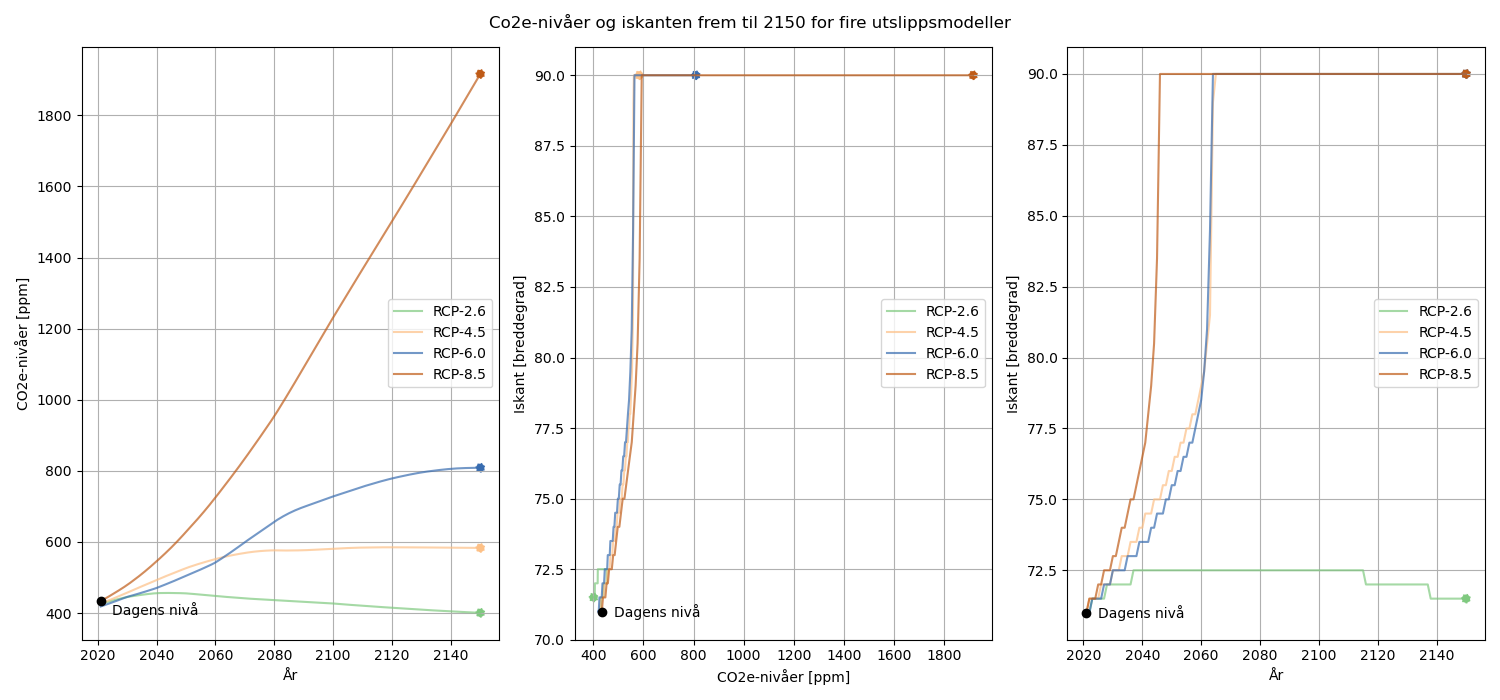
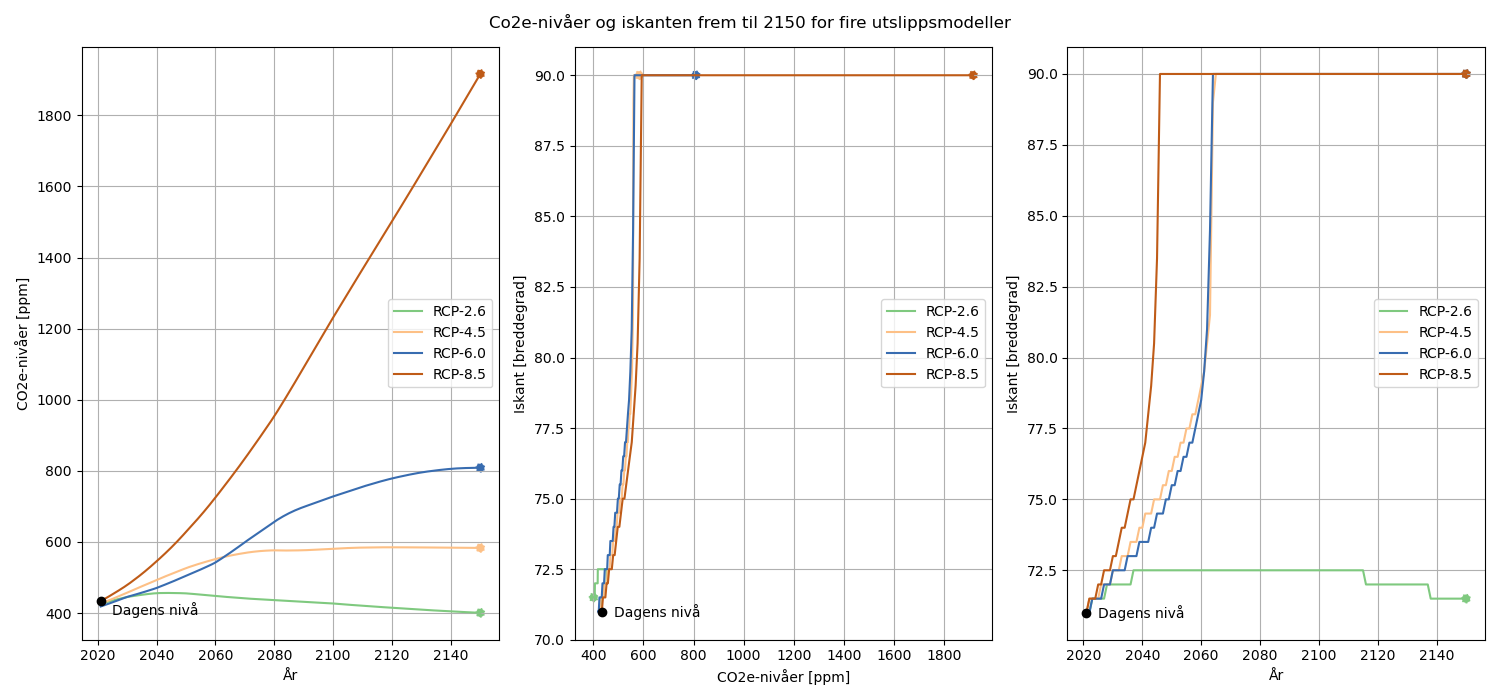
plots

diff --git a/plot_4scenarios_years-co2-icelat.py b/plot_4scenarios_years-co2-icelat.py
@@ -17,11 +17,12 @@ predictions = np.load(name, allow_pickle = True)
 #plot icelats and co2e levels
 cmap = matplotlib.cm.get_cmap('Accent')
 fig2, axs = plt.subplots(nrows = 1, ncols = 3, figsize=(15,7))
+alpha = 1
 plt.suptitle('Co2e-nivåer og iskanten frem til 2150 for fire utslippsmodeller')
 for i,predmodel in enumerate(predictions):
-    axs[0].plot(predmodel.years, predmodel.co2e_array, color = cmap(i/4), linestyle = '-', label = predmodel.label, alpha = 0.7)
-    axs[1].plot(predmodel.co2e_array, predmodel.icelat, color = cmap(i/4), linestyle = '-', label = predmodel.label, alpha = 0.7)
-    axs[2].plot(predmodel.years, predmodel.icelat, color = cmap(i/4), linestyle = '-', label = predmodel.label, alpha = 0.7)
+    axs[0].plot(predmodel.years, predmodel.co2e_array, color = cmap(i/4), linestyle = '-', label = predmodel.label, alpha = alpha)
+    axs[1].plot(predmodel.co2e_array, predmodel.icelat, color = cmap(i/4), linestyle = '-', label = predmodel.label, alpha = alpha)
+    axs[2].plot(predmodel.years, predmodel.icelat, color = cmap(i/4), linestyle = '-', label = predmodel.label, alpha = alpha)
     axs[0].scatter(predmodel.years[-1], predmodel.co2e_array[-1], color = cmap(i/4), linestyle = 'dotted')
     axs[1].scatter(predmodel.co2e_array[-1], predmodel.icelat[-1], color = cmap(i/4), linestyle = 'dotted')
     axs[2].scatter(predmodel.years[-1], predmodel.icelat[-1], color = cmap(i/4), linestyle = 'dotted')
@@ -52,3 +53,19 @@ axs[2].grid()
 
 fig2.tight_layout()
 fig2.show()
+
+
+fig1, axs1 = plt.subplots()
+for i,predmodel in enumerate(predictions):
+    dT = [predmodel.mean_temp[i] - predmodel.mean_temp[0] + 1 for i in range(len(predmodel.mean_temp))] 
+    axs1.plot(predmodel.years, dT, color = cmap(i/4), linestyle = '-', label = predmodel.label, alpha = 1)
+
+plt.title('Global gjennomsnittlig temperaturendring i forhold til 1850-1900')
+axs1.plot([2015,2165], [1.5, 1.5], 'r--', label = '1,5 grader')
+axs1.set_xlim(2015,2100)
+axs1.set_ylim(-0.5,5.5)
+axs1.set_xlabel('År')
+axs1.set_ylabel('Global gjennomsnittlig temperaturendring [°C]')
+axs1.legend()
+axs1.grid()
+fig1.show()
